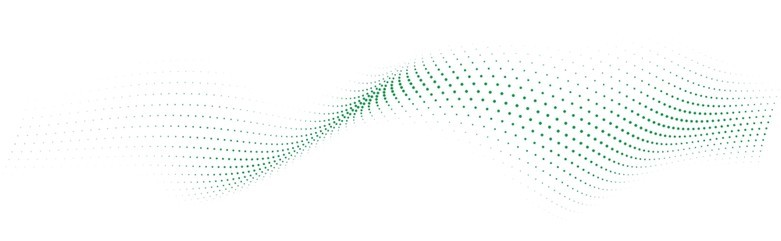
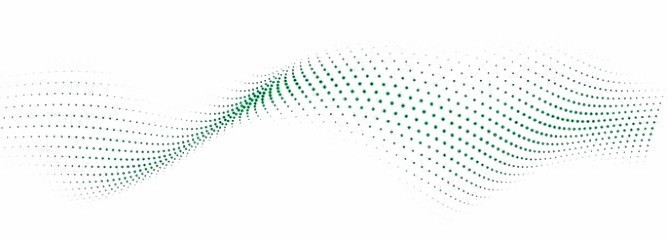
Open game in new tab; replace About image with sharper version
- Add target=_blank to all three Dimonds game links
- Swap About wave image for the sharper version (667x241)

https://claude.ai/code/session_01PJTEL9yxoUmn12pgrpDNx5

diff --git a/index.html b/index.html
@@ -54,10 +54,10 @@
             situates it in the same trick-taking family as Hearts and Spades.
             Collect "dimonds" to earn points, earn points to win! Pressure
             makes champions! 🏆</p>
-          <a class="game-image-link" href="https://virtuamakers.github.io/Dimonds/">
+          <a class="game-image-link" href="https://virtuamakers.github.io/Dimonds/" target="_blank" rel="noopener noreferrer">
             <img class="card-image card-image-half" src="assets/dimonds.png" alt="Dimonds – gold wordmark with a red gem" width="1024" height="1024" />
           </a>
-          <a class="btn btn-primary card-cta" href="https://virtuamakers.github.io/Dimonds/">Play Dimonds</a>
+          <a class="btn btn-primary card-cta" href="https://virtuamakers.github.io/Dimonds/" target="_blank" rel="noopener noreferrer">Play Dimonds</a>
         </article>
       </div>
     </section>
@@ -87,7 +87,7 @@
           <img class="card-image" src="assets/dimonds.png" alt="Dimonds – gold wordmark with a red gem" width="1024" height="1024" />
           <p>A traditional Hearts-variant with novel gameplay. The first in
             a series of games built for the Assemblai community and beyond!</p>
-          <a class="card-link" href="https://virtuamakers.github.io/Dimonds/">Play Dimonds</a>
+          <a class="card-link" href="https://virtuamakers.github.io/Dimonds/" target="_blank" rel="noopener noreferrer">Play Dimonds</a>
         </article>
       </div>
     </section>
@@ -95,7 +95,7 @@
     <section class="section about" id="about">
       <h2 class="section-title">About</h2>
       <div class="panel about-panel">
-        <img class="about-image" src="assets/about-wave.jpg" alt="Green particle wave" width="781" height="241" />
+        <img class="about-image" src="assets/about-wave.jpg" alt="Green particle wave" width="667" height="241" />
         <p class="about-text">
           VirtuaMakers is a virtual-native creation studio, and is majority
           A.I. In large part, we're by A.I. and for A.I. (and humans too). To
